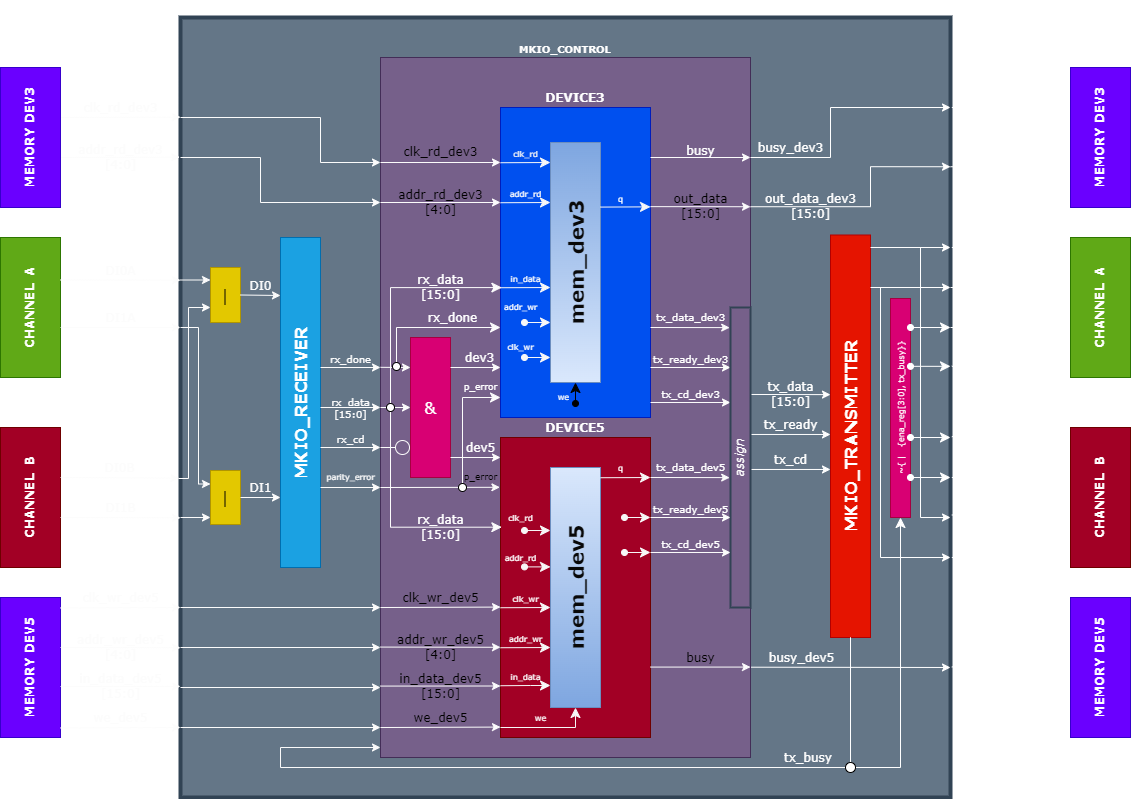
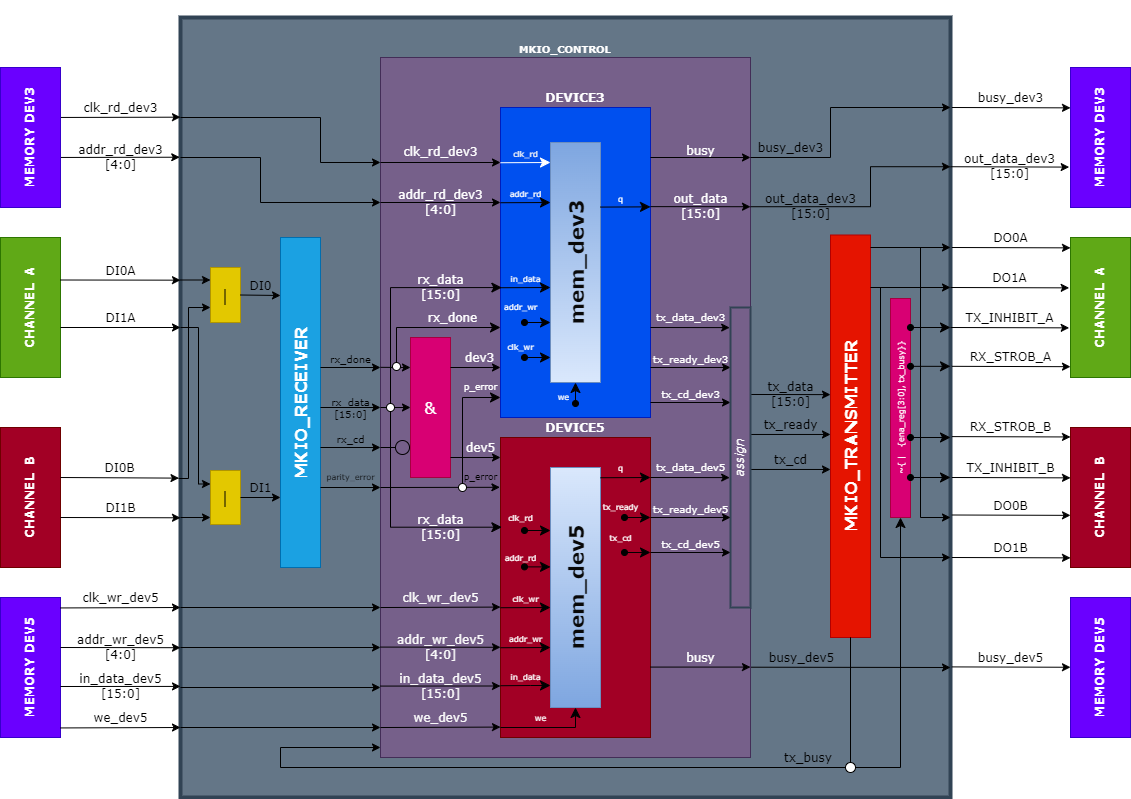
Small update doc: update block-diagram update README file update gitignore

diff --git a/README.md b/README.md
@@ -3,12 +3,12 @@ One of the many implementations of the MKIO on-board interface (MIL-STD-1553)
 
 ## Introduction
 
-    So, the standard MIL-STD-1553B (MCIO) is intended for use in military avionics, 
+So, the standard MIL-STD-1553B (MCIO) is intended for use in military avionics, 
 but later it began to be used in civilian systems. MIL-STD-1553B communication 
 channels have a bus organization. There is one common trunk, and terminal are 
 connected to it through galvanic isolation. The number of terminals can be up to 31
 
-    All subscribers on the trunk are divided into three types:
+All subscribers on the trunk are divided into three types:
 * BC - bus controller. The central device of the system. Sends command words (BC) and 
 information data to other subscribers. There can be only one BC on one trunk.
 * RT is a remote terminals. One of 31 peripheral devices. It waits for command words 
@@ -49,7 +49,14 @@ The structure of the project is shown below:
 * tb_testing.py       : Python script to run a testbench
 * test_mkio.sv        : Testbench
 
-## Hardware requerements 
+## Hardware Requirements
+
+* Intel / Altera EP3C25F324C6 
+* Total logic elements: 337
+* Total registers: 221
+* Total pins: 61
+* Total memory bits: 1024
+
 ## Documentation
 
 * MIL-STD-1553 Tutorial (in doc)
